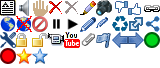
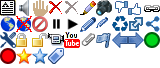
more tag infrastructure

Changed region(s): [[0.2812, 0.7059, 0.4062, 0.9412]]

diff --git a/view/theme/duepuntozero/style.css b/view/theme/duepuntozero/style.css
@@ -2749,6 +2749,7 @@ a.mail-list-link {
 .off { background-position: 0px -48px; }
 .starred { background-position: -16px -48px; }
 .unstarred { background-position: -32px -48px; }
+.tagged { background-position: -48px -48px; }
 
 
 .icon.dim { opacity: 0.3;filter:alpha(opacity=30); }

diff --git a/view/theme/loozah/style.css b/view/theme/loozah/style.css
@@ -2732,6 +2732,7 @@ a.mail-list-link {
 .off { background-position: 0px -48px; }
 .starred { background-position: -16px -48px; }
 .unstarred { background-position: -32px -48px; }
+.tagged { background-position: -48px -48px; }
 
 .icon.dim { opacity: 0.3;filter:alpha(opacity=30); }
 

diff --git a/update.php b/update.php
@@ -1,6 +1,6 @@
 <?php
 
-define( 'UPDATE_VERSION' , 1089 );
+define( 'UPDATE_VERSION' , 1090 );
 
 /**
  *
@@ -750,3 +750,6 @@ function update_1088() {
 		ADD `expire_notification_sent` DATETIME NOT NULL DEFAULT '0000-00-00 00:00:00' AFTER `account_expires_on` ");
 }
 
+function update_1089() {
+	q("ALTER TABLE `user` ADD `blocktags` TINYINT( 1 ) NOT NULL DEFAULT '0' AFTER `hidewall` ");
+}

diff --git a/boot.php b/boot.php
@@ -9,7 +9,7 @@ require_once("include/pgettext.php");
 
 define ( 'FRIENDIKA_VERSION',      '2.3.1108' );
 define ( 'DFRN_PROTOCOL_VERSION',  '2.21'    );
-define ( 'DB_UPDATE_VERSION',      1089      );
+define ( 'DB_UPDATE_VERSION',      1090      );
 
 define ( 'EOL',                    "<br />\r\n"     );
 define ( 'ATOM_TIME',              'Y-m-d\TH:i:s\Z' );
